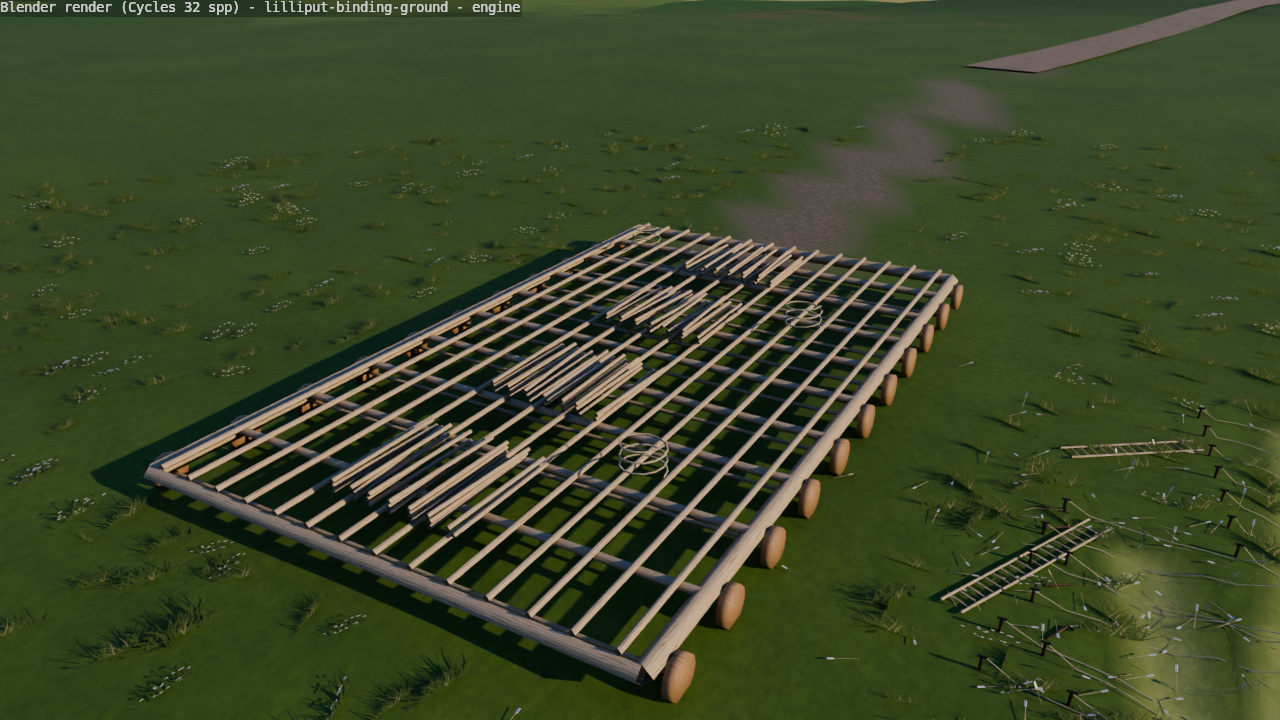
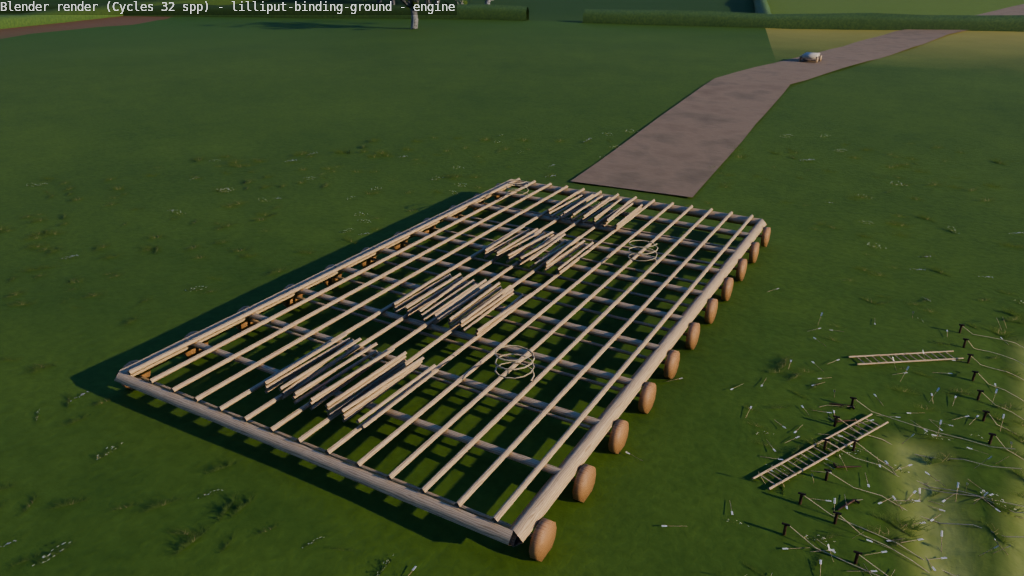
Scene room lilliput-binding-ground (gulliver c01): rework for scale, the miniature world close at hand
Brings the 1/12 country in to the reader's feet so the reader reads as the giant: hedged
40-foot fields from ~8 m out, a hamlet of knee-high cottages with a church spire and hay
stooks 12 m off on the right, a farm cart on the tiny road, trees from knee to head height
in small woods and hedgerows, Mildendo's wall (2.5 ft) with towers, houses and palace ~35 m
off on its low rise. The turf is shorter and finer; the hard seam where the field patchwork
met the turf is gone (field cells now align with the hedges; a soft 9-16 m blend). Pegs,
cut ligatures, ladders, stage and engine unchanged. Captures re-rendered (adds aerial).

Triangles 50246, outdoor. Re-baked and re-published (4.2 MB zip).
Lights: light.sun (low ENE) baked. Sound: birds:0.5+wind-grass:0.4. Wind 0.3 toward 270.

diff --git a/blender/build_lilliput_binding_ground.py b/blender/build_lilliput_binding_ground.py
@@ -45,8 +45,9 @@ rng = random.Random(1699)
 EYE = S.EYE
 YAW = 24.0
 SUN_DIR = Vector((0.93, 0.12, 0.34)).normalized()     # toward the sun: east, a little north, ~20 degrees up
-CITY = Vector((26.0, 230.0, 0.0))                     # Mildendo, far off to the north
-ROAD = [(-1.9, 2.6), (-2.6, 9.0), (-1.0, 22.0), (3.0, 45.0), (9.0, 80.0), (16.0, 130.0), (22.0, 185.0), (25.0, 214.0)]
+CITY = Vector((7.0, 44.0, 0.0))                       # Mildendo, its wall about forty metres off to the north
+HAMLET = Vector((9.5, 9.0, 0.0))
+ROAD = [(-1.9, 2.6), (-2.4, 6.5), (-1.7, 12.0), (0.4, 20.0), (3.0, 27.0), (5.2, 31.5)]
 
 # ----------------------------------------------------------------------------- the impression of the body
 # Gulliver lay on his back, head at the reader's feet (south), feet to the north; his right side is east (+X).
@@ -75,8 +76,8 @@ def body_depth(x, y):
 def gz(x, y):
     r = math.hypot(x, y)
     z = 0.012 * noise.noise(Vector((x * 1.9, y * 1.9, 0.4))) + 0.06 * noise.noise(Vector((x * 0.21, y * 0.21, 1.7)))
-    z += 0.9 * noise.noise(Vector((x * 0.018, y * 0.018, 3.1))) * smoothstep(10, 60, r)
-    z += 2.6 * math.exp(-((x - CITY.x) ** 2 + (y - CITY.y) ** 2) / (2 * 55.0 ** 2))      # the rise the city stands on
+    z += 0.5 * noise.noise(Vector((x * 0.03, y * 0.03, 3.1))) * smoothstep(8, 40, r)
+    z += 0.7 * math.exp(-((x - CITY.x) ** 2 + (y - CITY.y) ** 2) / (2 * 16.0 ** 2))      # the low rise the city stands on
     if r < 3.2: z -= body_depth(x, y)
     return z
 
@@ -123,8 +124,10 @@ def ground_mat(name):
     col = base.outputs["Color"]
     col = mix_rgb(nt, 'MULTIPLY', maprange(nt, n3.outputs["Fac"], 0.3, 0.7, 0.0, 0.45, (-1100, -300)), col, (0.45, 0.5, 0.3, 1), (-900, 200))
     # fields beyond the common: snapped coords in a frame turned 18 degrees, 12 m cells
-    mp = node(nt, "ShaderNodeMapping", (-2200, -800)); mp.inputs["Rotation"].default_value = (0, 0, math.radians(18)); mp.inputs["Scale"].default_value = (1 / 12.0, 1 / 12.5, 1)
-    nt.links.new(co, mp.inputs["Vector"])
+    # the hedge grid is world = R(18 deg) (u, v): cells are floor(S R(-18 deg) p), rotating first, then scaling
+    mr = node(nt, "ShaderNodeMapping", (-2350, -800)); mr.inputs["Rotation"].default_value = (0, 0, math.radians(-18)); nt.links.new(co, mr.inputs["Vector"])
+    mp = node(nt, "ShaderNodeMapping", (-2200, -800)); mp.inputs["Scale"].default_value = (1 / 12.0, 1 / 12.5, 1)
+    nt.links.new(mr.outputs["Vector"], mp.inputs["Vector"])
     sn = node(nt, "ShaderNodeVectorMath", (-2000, -800), operation='FLOOR'); nt.links.new(mp.outputs["Vector"], sn.inputs[0])
     wn = node(nt, "ShaderNodeTexWhiteNoise", (-1800, -800)); wn.noise_dimensions = '3D'; nt.links.new(sn.outputs[0], wn.inputs["Vector"])
     fr = ramp(nt, [(0.0, c4(srgb((0.24, 0.36, 0.10)))), (0.3, c4(srgb((0.40, 0.47, 0.16)))), (0.5, c4(srgb((0.70, 0.62, 0.32)))), (0.62, c4(srgb((0.45, 0.33, 0.21)))),
@@ -133,7 +136,7 @@ def ground_mat(name):
     fcol = mix_rgb(nt, 'MULTIPLY', maprange(nt, n2_.outputs["Fac"], 0.3, 0.7, 0.0, 0.3, (-1300, -1000)), fr.outputs["Color"], (0.6, 0.6, 0.6, 1), (-1300, -800))
     rr = node(nt, "ShaderNodeVectorMath", (-2200, -1200), operation='LENGTH')
     xy = node(nt, "ShaderNodeCombineXYZ", (-2350, -1200)); nt.links.new(s.outputs["X"], xy.inputs["X"]); nt.links.new(s.outputs["Y"], xy.inputs["Y"]); nt.links.new(xy.outputs[0], rr.inputs[0])
-    fw = maprange(nt, math_(nt, 'ADD', rr.outputs["Value"], math_(nt, 'MULTIPLY', n1.outputs["Fac"], 10.0)), 20.0, 24.0, 0, 1, (-1000, -1000))
+    fw = maprange(nt, math_(nt, 'ADD', rr.outputs["Value"], math_(nt, 'MULTIPLY', n1.outputs["Fac"], 1.5)), 9.0, 16.0, 0, 1, (-1000, -1000))
     col = mix_rgb(nt, 'MIX', fw, col, fcol, (-700, 0))
     # the body mask (red: flattened, green: rim)
     mm = node(nt, "ShaderNodeMapping", (-2200, 900)); mm.inputs["Location"].default_value = (0.5, 0.6 / MASK_W, 0); mm.inputs["Scale"].default_value = (1 / MASK_W, 1 / MASK_W, 1)
@@ -242,7 +245,7 @@ print("grass ...", flush=True)
 mb = MB(); R = random.Random(5)
 placed = 0
 for i in range(40000):
-    r = 6.0 * R.random() ** 0.9
+    r = 5.0 * R.random() ** 0.85
     a = R.uniform(0, 2 * math.pi); x, y = r * math.sin(a), r * math.cos(a)
     if r < 0.45: continue
     sd = body_sdf(x, y)
@@ -256,12 +259,12 @@ for i in range(40000):
     sc = R.uniform(0.55, 0.9) * (0.75 + 0.4 * clump) * (1.0 + 0.3 * smoothstep(2.5, 6.0, r))
     if sd < 0.08: sc *= 1.25                                              # the rim, pushed up
     to_r = Vector((-x, -y, 0)).normalized(); ya = math.atan2(to_r.y, to_r.x) + math.pi / 2 + R.gauss(0, 0.5)
-    right = Vector((math.cos(ya), math.sin(ya), 0)) * 0.20 * sc
-    up = Vector((0, 0, 0.08 * sc)) - to_r * 0.008 * sc
+    right = Vector((math.cos(ya), math.sin(ya), 0)) * 0.13 * sc
+    up = Vector((0, 0, 0.05 * sc)) - to_r * 0.006 * sc
     cell = R.choice(S.GRASS_SHORT) if R.random() < 0.8 else R.choice(S.GRASS_ROW3[:3])
     card(mb, (x, y, z - 0.01), right, up, cell, 0.0, 1.0)
     placed += 1
-    if placed > 3000: break
+    if placed > 3300: break
 grass = mb.build("veg_grass", M_GRASS)
 set_card_normals(grass, lambda p: Vector((0, 0, 1)))
 print("grass cards", placed, flush=True)
@@ -543,13 +546,13 @@ hm = MB()
 CA, SA = math.cos(math.radians(18)), math.sin(math.radians(18))
 def to_world(u, v): return (u * CA - v * SA, u * SA + v * CA)
 def hedge_run(p0, p1, R2):
-    L = math.dist(p0, p1); n = max(2, int(L / 1.4))
+    L = math.dist(p0, p1); n = max(2, int(L / (0.7 if math.hypot(*p0) < 20 else 1.4)))
     d = Vector((p1[0] - p0[0], p1[1] - p0[1], 0)).normalized(); sd = Vector((-d.y, d.x, 0))
     rows = []
     for i in range(n + 1):
         t = i / n; x = p0[0] + (p1[0] - p0[0]) * t; y = p0[1] + (p1[1] - p0[1]) * t
-        z = h(x, y); hh = 0.24 + 0.06 * noise.noise(Vector((x * 1.3, y * 1.3, 0.5))) + 0.03 * R2.random()
-        w = 0.12 + 0.03 * noise.noise(Vector((x * 2.1, y * 2.1, 1.5)))
+        z = h(x, y); hh = 0.20 + 0.06 * noise.noise(Vector((x * 1.3, y * 1.3, 0.5))) + 0.03 * R2.random()
+        w = 0.10 + 0.03 * noise.noise(Vector((x * 2.1, y * 2.1, 1.5)))
         prof = [(-w, -0.02), (-w * 1.1, hh * 0.6), (0, hh), (w * 1.1, hh * 0.6), (w, -0.02)]
         rows.append([hm.vert(Vector((x, y, z)) + sd * a + Vector((0, 0, b_)), (t * L, k / 4), 0.0) for k, (a, b_) in enumerate(prof)])
     for ra, rb in zip(rows, rows[1:]):
@@ -563,8 +566,9 @@ for gi in range(-8, 9):
             wa, wb = to_world(*a_), to_world(*b_)
             mx, my = (wa[0] + wb[0]) / 2, (wa[1] + wb[1]) / 2
             r = math.hypot(mx, my)
-            if r < 23 or r > 55: continue
-            if R2.random() < 0.18: continue
+            if r < 7.6 or r > 48: continue
+            if math.hypot(mx - CITY.x, my - CITY.y) < 18 or math.hypot(mx - HAMLET.x, my - HAMLET.y) < 1.8: continue
+            if r > 30 and R2.random() < 0.18: continue
             if road_dist(mx, my) < 1.0:   # gap where the road passes
                 continue
             # leave a gate gap
@@ -574,18 +578,18 @@ for gi in range(-8, 9):
 hm.build("veg.shrub.hedges", M_HEDGE, sway=True)
 
 # little woods of seven-foot trees and a few hedgerow trees
-woods = [(-30.0, 38.0, 7.0, 11), (34.0, 52.0, 6.0, 8), (-46.0, -10.0, 8.0, 8), (12.0, -38.0, 6.0, 6), (52.0, 4.0, 5.0, 5), (-18.0, 88.0, 9.0, 9)]
+woods = [(-11.0, 13.0, 2.6, 8), (-15.0, -5.0, 3.0, 7), (17.0, -7.0, 2.5, 5), (-24.0, 26.0, 4.0, 7), (27.0, 26.0, 4.0, 6), (-6.0, -17.0, 3.0, 5), (-30.0, 6.0, 3.5, 5)]
 ti = 0
 for (wx, wy, wr, n) in woods:
     for k in range(n):
         a = rng.uniform(0, 2 * math.pi); d = wr * math.sqrt(rng.random())
         x, y = wx + math.cos(a) * d, wy + math.sin(a) * d
-        H_ = rng.uniform(1.5, 2.15); far_ = math.hypot(x, y) > 45
+        H_ = rng.uniform(0.7, 2.1); far_ = math.hypot(x, y) > 14
         S.tree(f"T{ti}", (x, y, h(x, y)), H_, H_ * 0.32, rng.choice(("oak", "elm", "ash", "lime")), 100 + ti, M_BARK, M_LEAF,
-               nlimbs=4, detail=0.3, cards_per_tip=1, card_size=0.42 if far_ else 0.32, fill=10 if far_ else 16)
+               nlimbs=4 if far_ else 5, detail=0.3 if far_ else 0.6, cards_per_tip=1, card_size=H_ * (0.2 if far_ else 0.16), fill=10 if far_ else 16)
         ti += 1
-for (x, y, H_) in [(-14.0, 19.0, 2.0), (17.0, 26.0, 1.9), (24.0, -12.0, 2.1), (-22.0, 2.0, 1.8)]:
-    S.tree(f"T{ti}", (x, y, h(x, y)), H_, H_ * 0.36, "oak", 200 + ti, M_BARK, M_LEAF, nlimbs=6, detail=0.6, cards_per_tip=2, card_size=0.32, fill=26)
+for (x, y, H_) in [(-8.2, 8.6, 1.3), (6.2, 13.8, 2.0), (9.6, -4.2, 0.9), (-9.0, -1.0, 1.6), (12.5, 4.0, 1.1)]:
+    S.tree(f"T{ti}", (x, y, h(x, y)), H_, H_ * 0.36, "oak", 200 + ti, M_BARK, M_LEAF, nlimbs=6, detail=0.6, cards_per_tip=2, card_size=H_ * 0.15, fill=26)
     ti += 1
 print("trees", ti, flush=True)
 
@@ -599,18 +603,67 @@ def cbox(mb, c, sx, sy, sz, yaw=0.0):
             pts.append(mb.vert(Vector((c.x + u * ca - v * sa, c.y + u * sa + v * ca, c.z + dz))))
     for f in ((0, 1, 2, 3), (4, 7, 6, 5), (0, 4, 5, 1), (1, 5, 6, 2), (2, 6, 7, 3), (3, 7, 4, 0)):
         mb.face(*[pts[i] for i in f])
-side = 45.0
+cr = MB()
+def cottage(p, w, d, wh, yaw, wallmb=None, roofmb=None):
+    """a Lilliputian cottage or town house: plastered walls, a pitched roof with eaves, a chimney (w, d full sizes)."""
+    wallmb = wallmb or cw; roofmb = roofmb or cr
+    p = Vector((p.x, p.y, h(p.x, p.y) - 0.02))
+    cbox(wallmb, p, w / 2, d / 2, wh, yaw)
+    Rm = Matrix.Rotation(yaw, 3, 'Z'); top = p + Vector((0, 0, wh)); rh = d * 0.5
+    q = [top + Rm @ Vector(v) for v in ((-w / 2 - 0.02, -d / 2 - 0.03, -0.01), (w / 2 + 0.02, -d / 2 - 0.03, -0.01), (w / 2 + 0.02, 0, rh), (-w / 2 - 0.02, 0, rh),
+                                         (-w / 2 - 0.02, d / 2 + 0.03, -0.01), (w / 2 + 0.02, d / 2 + 0.03, -0.01))]
+    for f in ((0, 1, 2, 3), (5, 4, 3, 2)): roofmb.face(*[roofmb.vert(q[i]) for i in f])
+    for (i0, i1, i2) in ((0, 3, 4), (1, 5, 2)): wallmb.face(wallmb.vert(q[i0] + Vector((0, 0, 0.01))), wallmb.vert(q[i1]), wallmb.vert(q[i2] + Vector((0, 0, 0.01))))
+    cbox(wallmb, top + Rm @ Vector((w * 0.3, d * 0.15, 0)), 0.025, 0.025, rh * 0.95, yaw)
+    # door and windows (dark) on the long side facing -y local
+    for (u, z0, ww, hh_) in ((0.0, 0.0, 0.05, 0.09), (-w * 0.3, 0.07, 0.045, 0.045), (w * 0.3, 0.07, 0.045, 0.045)):
+        c0 = p + Rm @ Vector((u, -d / 2 - 0.002, z0))
+        a_ = Rm @ Vector((ww / 2, 0, 0))
+        win.face(win.vert(c0 - a_), win.vert(c0 + a_), win.vert(c0 + a_ + Vector((0, 0, hh_))), win.vert(c0 - a_ + Vector((0, 0, hh_))))
+win = MB()
+side = 26.0
 for k in range(4):
     a = k * math.pi / 2 + 0.3
     for j in range(9):
         t = (j - 4) / 4.5
         c = CITY + Vector((math.cos(a) * side / 2 - math.sin(a) * t * side / 2, math.sin(a) * side / 2 + math.cos(a) * t * side / 2, 0))
-        c.z = h(c.x, c.y) - 0.1
-        cbox(cw, c, 0.2 if j % 2 == 0 else 2.6, 0.3 if j % 2 == 0 else 0.2, 1.6 if j % 2 == 0 else 0.85, a)
-for k in range(30):
-    c = CITY + Vector((rng.uniform(-18, 18), rng.uniform(-18, 18), 0)); c.z = h(c.x, c.y)
-    cbox(cw, c, rng.uniform(0.6, 1.2), rng.uniform(0.6, 1.2), rng.uniform(0.6, 1.4), 0.3)
-c = CITY.copy(); c.z = h(c.x, c.y); cbox(cw, c, 2.0, 2.0, 2.4, 0.3)
+        c.z = h(c.x, c.y) - 0.05
+        if j % 3 == 0: cbox(cw, c, 0.22, 0.22, 1.05, a); cbox(cr, c + Vector((0, 0, 1.05)), 0.25, 0.25, 0.06, a)
+    cm_ = CITY + Vector((math.cos(a) * side / 2, math.sin(a) * side / 2, 0)); cm_.z = h(cm_.x, cm_.y) - 0.05
+    cbox(cw, cm_, side / 2 * 1.02, 0.09, 0.76, a + math.pi / 2)
+RC = random.Random(12)
+for k in range(70):          # the town within: streets of houses two or three storeys (0.4-0.7 m), the palace in the middle
+    c = CITY + Vector((RC.uniform(-11.5, 11.5), RC.uniform(-11.5, 11.5), 0))
+    if abs(c.x - CITY.x) < 2.6 and abs(c.y - CITY.y) < 2.6: continue
+    yaw = 0.3 + (math.pi / 2 if RC.random() < 0.5 else 0)
+    cottage(c, RC.uniform(0.5, 0.9), RC.uniform(0.4, 0.55), RC.uniform(0.35, 0.65), yaw)
+c = CITY.copy(); c.z = h(c.x, c.y)
+cbox(cw, c, 2.2, 2.2, 1.1, 0.3); cbox(cr, c + Vector((0, 0, 1.1)), 2.3, 2.3, 0.12, 0.3)
+for k in range(4):
+    a = 0.3 + k * math.pi / 2 + math.pi / 4
+    tc = c + Vector((math.cos(a) * 2.6, math.sin(a) * 2.6, 0)); cbox(cw, tc, 0.3, 0.3, 1.6, 0.3); cbox(cr, tc + Vector((0, 0, 1.6)), 0.36, 0.36, 0.3, 0.3)
+# a hamlet near at hand on the right: cottages, a barn, a church with its spire
+HAMLET_C = HAMLET
+for k, (dx, dy, w, d, wh, yaw) in enumerate(((0.0, 0.0, 0.55, 0.42, 0.24, 0.1), (0.9, 0.5, 0.5, 0.4, 0.22, 0.25), (-0.8, 0.7, 0.6, 0.42, 0.25, -0.1),
+                                             (0.3, 1.4, 0.48, 0.38, 0.22, 1.7), (1.6, -0.4, 0.8, 0.5, 0.3, 0.2), (-1.4, -0.2, 0.5, 0.4, 0.22, 0.05))):
+    cottage(HAMLET + Vector((dx, dy, 0)), w, d, wh, yaw)
+ch = HAMLET + Vector((-0.6, 2.6, 0)); ch.z = h(ch.x, ch.y)
+cottage(ch, 1.1, 0.5, 0.42, 0.15)
+tw_ = ch + Vector((-0.75, -0.1, 0)); cbox(cw, tw_, 0.13, 0.13, 0.95, 0.15)
+sp = tw_ + Vector((0, 0, 0.95))
+for k in range(4):
+    a0, a1 = math.pi / 2 * k + 0.15 + math.pi / 4, math.pi / 2 * (k + 1) + 0.15 + math.pi / 4
+    cr.face(cr.vert(sp + Vector((math.cos(a0) * 0.19, math.sin(a0) * 0.19, 0))), cr.vert(sp + Vector((math.cos(a1) * 0.19, math.sin(a1) * 0.19, 0))), cr.vert(sp + Vector((0, 0, 0.7))))
+# a farm cart on the road and hay stooks in the field by the hamlet
+cc = Vector((-2.3, 8.2, 0)); cc.z = h(cc.x, cc.y)
+cbox(cw, cc + Vector((0, 0, 0.045)), 0.07, 0.13, 0.04, 0.05)
+for sx in (-1, 1):
+    for sy in (-1, 1): K.cyl(f"CartWheel{sx}{sy}", 0.035, 0.012, (cc.x + sx * 0.085, cc.y + sy * 0.08, cc.z + 0.035), M_TIMBER, verts=10, rot=(0, math.pi / 2, 0.05))
+for k in range(14):
+    p = HAMLET + Vector((-3.5 + (k % 5) * 0.55 + rng.uniform(-0.1, 0.1), -3.0 + (k // 5) * 0.6, 0)); p.z = h(p.x, p.y)
+    K.lathe(f"Stook{k}", [(0.0, 0.0), (0.06, 0.0), (0.045, 0.07), (0.0, 0.1)], tuple(p), M_LOAF, steps=6)
+win.build("TownWindows", M_IRON, sway=False)
+cr.build("CityRoofs", M_ROOF, sway=False)
 cw.build("CityWalls", M_STONE, sway=False)
 
 # ----------------------------------------------------------------------------- sky, light, anchors, sounds
